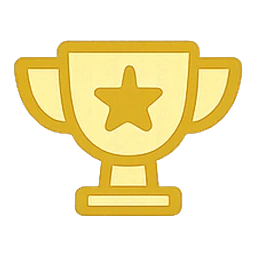
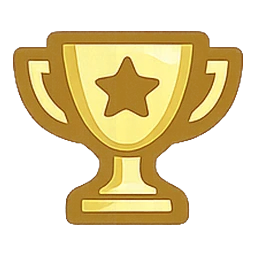
feat: 탭바 아이콘을 허브와 같은 두꺼운 골드로 + 활성 표시를 코드로 확정
사용자 지시 — "하단 이미지를 1번(허브) 이미지 같은 스타일로". 탭 시트를 허브
시트를 참조로 붙여 다시 받았다. 옛 판은 얇은 골드선에 흰 속이라 평균휘도가
0.740으로 거의 흰색이었다. 새 판은 허브와 같은 두꺼운 골드 채움이다.

⚠ **비활성/활성을 자산으로 가르는 것은 포기했다.** "비활성은 속 빈 외곽선,
   활성은 채움"을 세 판 연속 요청했는데 한 번도 안 나왔다 — 매번 두 행이 다
   채워져서 왔고 평균휘도 차이가 −0.026~−0.006이라 28px에서 눈에 안 보인다.
   네 번째 시트를 기다리는 대신 `opacity-50`으로 확정한다.

   실측(탭바 배경 #16161a): 활성 10.6:1 · 비활성 4.2~4.4:1. 비활성도 그래픽
   최소 기준 3:1 위라 읽히면서, 활성이 확실히 도드라진다.

   ⚠ `tab-bar.tsx`의 옛 주석은 "활성은 속이 찬 그림이라 색을 못 봐도 안다"고
   했는데 **그건 지금 참이 아니다.** 주석을 사실로 고쳤다 — 상태를 말해 주는
   것은 라벨 글자색과 이 opacity 둘이다.

⚠ 자산 교체 뒤 `.next/dev/cache/images`를 지우고 개발 서버를 재시작했다.
   안 지우면 Next 16이 4시간 동안 옛 변환본을 계속 내준다.

검증: lint 0 · typecheck · test 1337/1337 · build ✅ · check-ui-icons 42/43
(hub-routine 2px — 물리 하한은 넘고 여유 2.4px에 걸린다, 지표를 만지지 않았다)

diff --git a/src/components/tab-bar.tsx b/src/components/tab-bar.tsx
@@ -7,10 +7,22 @@ import { usePathname } from "next/navigation";
 /**
  * 하단 탭 (2026-08-07 사용자 제공 시안으로 이모지 → 이미지).
  *
- * ⚠ `slug`에서 **두 개**의 파일 이름이 나온다 — `tab-<slug>.webp`(비활성,
- * 테두리)와 `tab-<slug>-active.webp`(채움). 시안이 두 상태를 따로 그려 준
- * 것을 그대로 쓴다. 색만 바꾸는 것과 다르다: 활성 탭은 **속이 찬 그림**이라
- * 색을 못 보는 사람도 지금 어느 탭인지 알 수 있다.
+ * ⚠ `slug`에서 **두 개**의 파일 이름이 나온다 — `tab-<slug>.webp`와
+ * `tab-<slug>-active.webp`. 시안이 두 상태를 따로 그려 준 것을 그대로 쓴다.
+ *
+ * ⚠ **그런데 지금 두 자산은 사실상 같은 그림이다.** 시트를 세 판 받는 동안
+ * "비활성은 속이 빈 외곽선, 활성은 채움"이 한 번도 안 나왔다 — 매번 둘 다
+ * 채워져서 왔고, 실측 평균휘도 차이가 −0.026~−0.006으로 **눈에 안 보인다**
+ * (`docs/ui-icon-asset-guide.md` 시트 D 참조).
+ *
+ * 그래서 지금 상태를 말해 주는 것은 **자산이 아니라 아래 둘**이다:
+ *   ① 라벨 글자색 `text-accent` / `text-muted`
+ *   ② 비활성 아이콘의 `opacity-50`
+ * 흐린 것과 또렷한 것이 나란히 있어야 어느 쪽이 지금인지 읽힌다. 자산만으로는
+ * 다섯 개가 전부 같은 밝기라 **선택된 탭이 없어 보인다.**
+ *
+ * ⚠ 시안이 진짜로 속 빈 판을 주면 `opacity-50`을 떼도 된다. 그 전에는 떼지
+ * 마라 — 떼는 순간 상태 표시가 글자색 하나로 줄어든다.
  *
  * 자산은 `scripts/slice-ui-icons.py`가 만든다.
  */
@@ -49,7 +61,7 @@ export function TabBar() {
               alt=""
               width={28}
               height={28}
-              className="h-7 w-7"
+              className={`h-7 w-7 ${active ? "" : "opacity-50"}`}
             />
             <span className="text-[10.5px] font-bold">{tab.label}</span>
           </Link>
